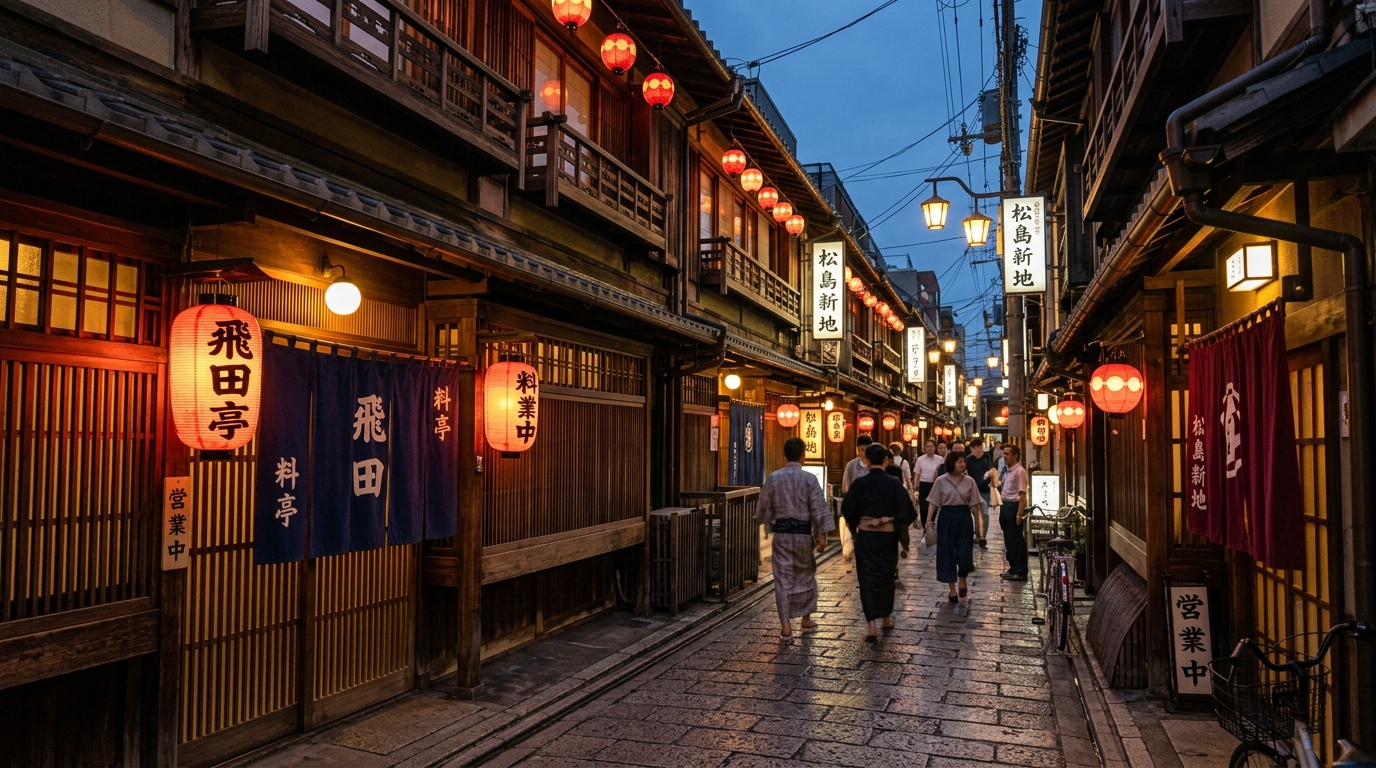
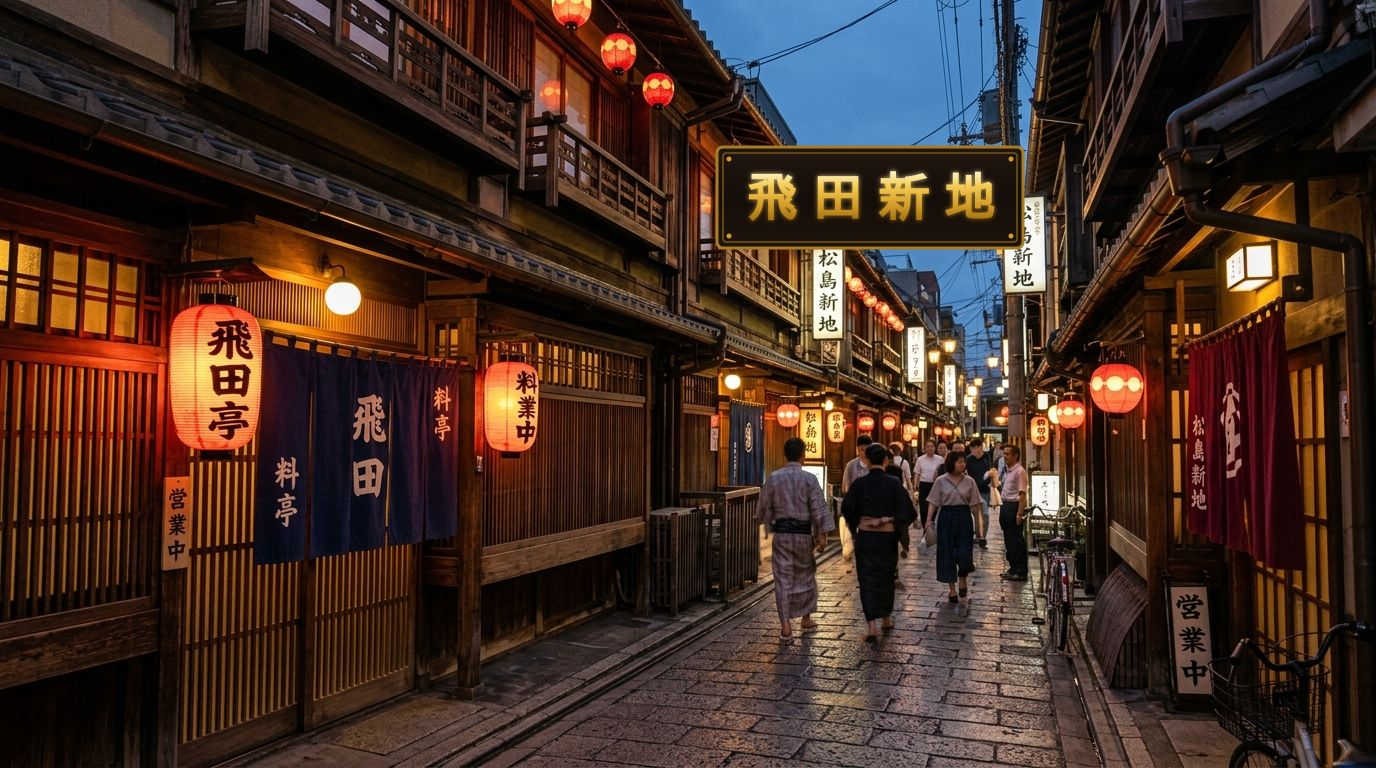
Fix hero image signboard from Matsushima Shinchi to authentic Tobita Shinchi (飛田新地)

Changed region(s): [[0.5, 0.1875, 0.75, 0.3438]]

diff --git a/src/data.ts b/src/data.ts
@@ -8,7 +8,7 @@ import { ConcernItem, ReasonItem, FAQItem, TestimonialItem, JobFactItem, FlowSte
 const tobitaCastOne = '/images/japanese_cast_avatar_one.jpg';
 const tobitaCastTwo = '/images/japanese_cast_avatar_two.jpg';
 const tobitaCastThree = '/images/japanese_cast_avatar_three.jpg';
-const tobitaDreamHeroBanner = '/images/tobita_atmosphere_hero.jpg';
+const tobitaDreamHeroBanner = '/images/tobita_atmosphere_hero.jpg?v=20260915_tobitashinchi';
 const tobitaAdvisorAvatar = '/images/japanese_staff_advisor.jpg';
 
 // ==========================================
